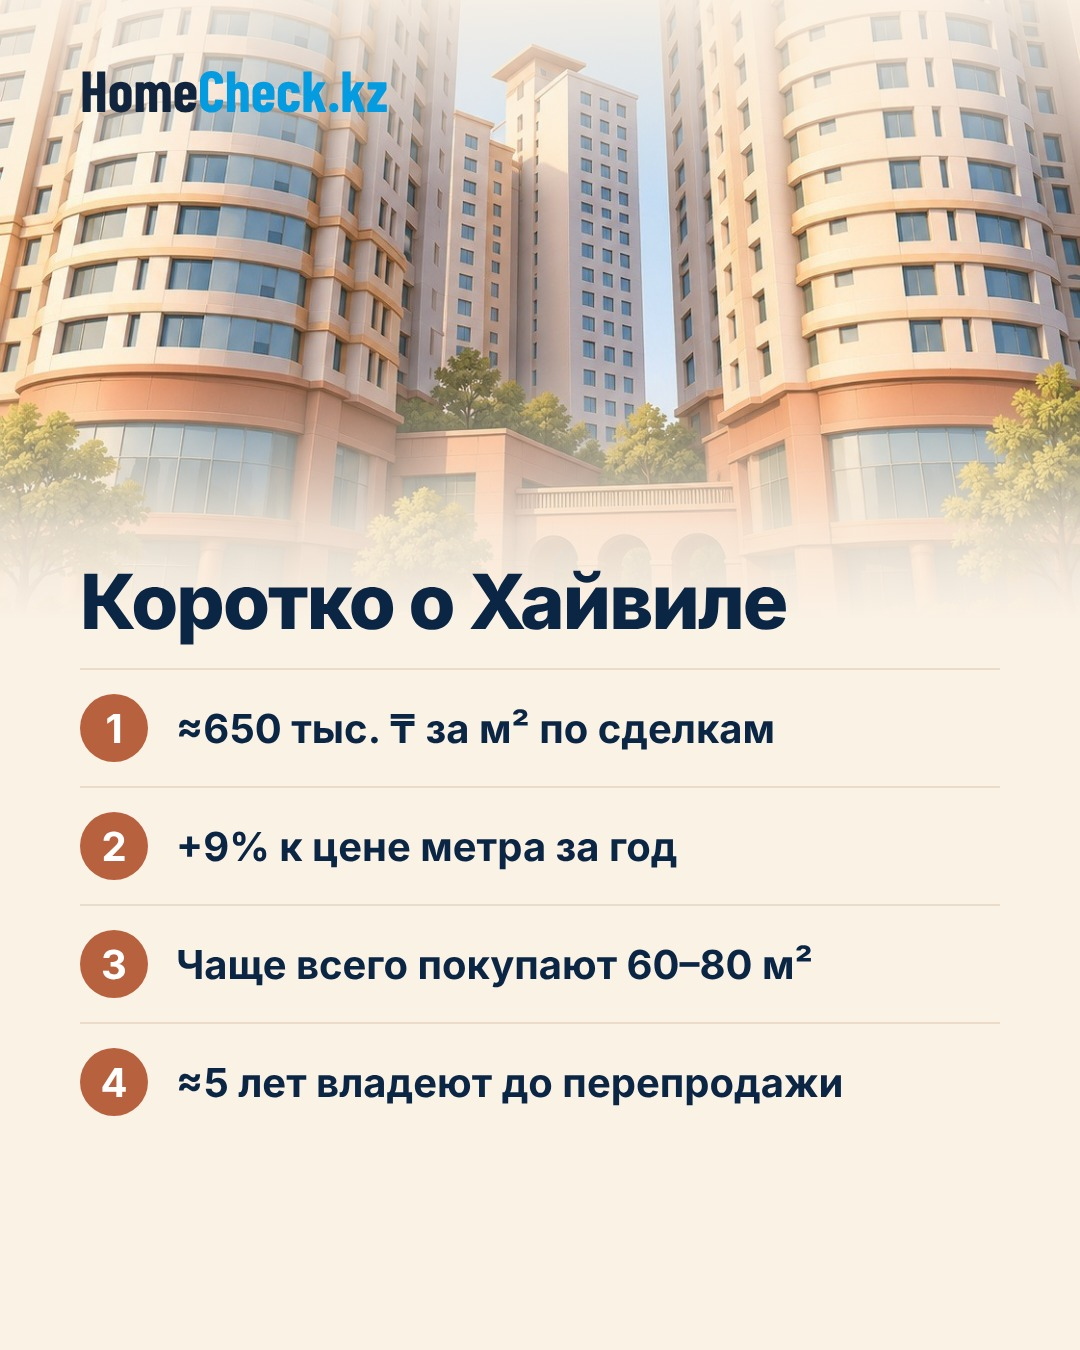
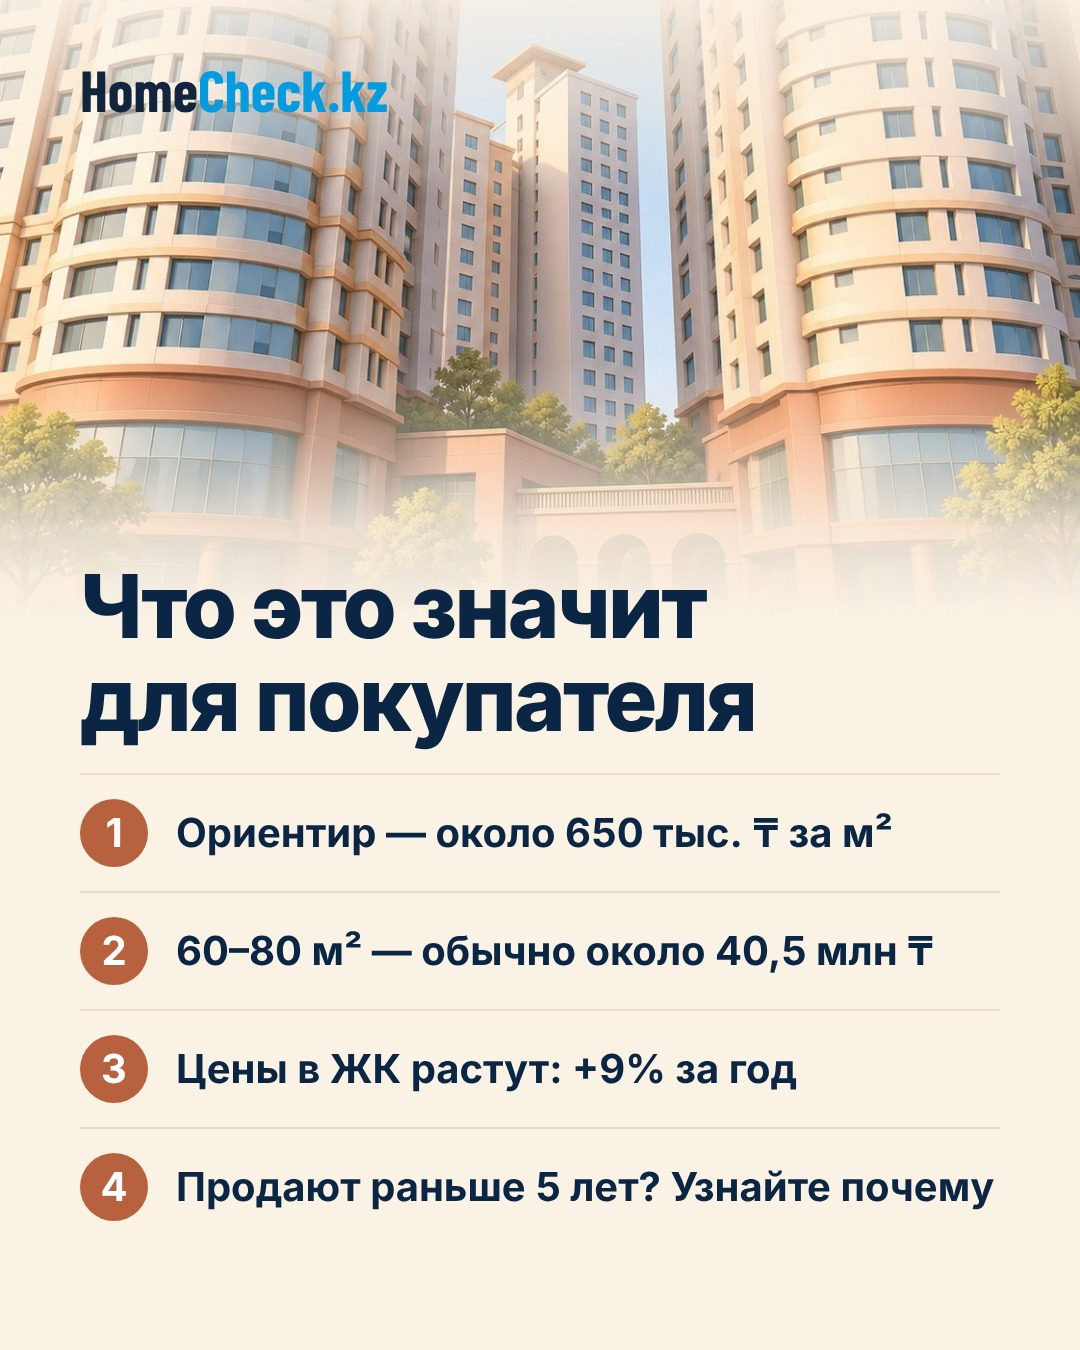
Хайвил: рекомендации из файла данных, крупнее заголовки, простые выводы для покупателя, подпись с источником и периодом
Claude-Session: https://claude.ai/code/session_01YPTRhbcfXRBnSeVtmn8ipe

Changed region(s): [[0.0611, 0.4044, 0.9167, 0.9022], [0.7028, 0.5911, 0.825, 0.6533]]

diff --git a/posts/zhk-bez-filtrov-01-hayvill/build.py b/posts/zhk-bez-filtrov-01-hayvill/build.py
@@ -21,7 +21,7 @@ CSS = f"""
 .logo .h{{color:#12253E}} .logo .c{{color:#049BE1}}
 .img{{position:absolute;left:0;top:0;width:1080px;object-fit:cover}}
 .col{{position:absolute;left:80px;width:920px;z-index:4}}
-.t{{margin:0;font-size:76px;line-height:1.08;font-weight:800;letter-spacing:-.025em}}
+.t{{margin:0;font-size:88px;line-height:1.06;font-weight:800;letter-spacing:-.03em}}
 .n{{font-size:140px;line-height:.95;font-weight:800;letter-spacing:-.04em;color:{BLUE}}}
 .p,.u{{font-size:40px;line-height:1.3;font-weight:500;color:#33465E;margin:0}}
 .u{{font-weight:700;color:{NAVY}}}
@@ -70,26 +70,26 @@ def fact(img, pos, title, num, unit, line):
 
 
 S1 = page(full('aerial', '50% 0%', 520)
-          + f'<div class="col" style="top:170px"><h1 class="t" style="font-size:140px;line-height:1;letter-spacing:-.04em">{NAME}</h1>'
+          + f'<div class="col" style="top:170px"><h1 class="t" style="font-size:190px;line-height:.95;letter-spacing:-.045em">{NAME}</h1>'
             f'<p class="p" style="margin-top:18px;color:{NAVY};font-weight:700">Что о нём говорят реальные сделки →</p></div>'
           + tag(560, 1020, '≈650 тыс. ₸', 'за м² по сделкам', 470, 880))
 
 S2 = fact('towers', '50% 12%', 'Сколько стоит метр на&nbsp;самом деле', '≈650', 'тыс. ₸ за м²',
-          'Типичная цена метра по&nbsp;зарегистрированным сделкам в&nbsp;ЖК')
+          'Столько обычно платят за&nbsp;метр в&nbsp;реальных сделках. Ориентир, чтобы понять, не&nbsp;завышена ли цена квартиры')
 S3 = fact('aerial', '50% 55%', 'Как меняются цены', '+9%', 'за год',
-          'Настолько выросла типичная цена метра по&nbsp;сравнению с&nbsp;предыдущим годом')
+          'Цены в&nbsp;ЖК растут. Это общий тренд по&nbsp;ЖК, а&nbsp;не&nbsp;рост каждой отдельной квартиры')
 S4 = fact('interior', '50% 60%', 'Что здесь покупают чаще всего', '60–80', 'м²',
-          'Каждая пятая продажа. Типичная сумма сделки — 40,5&nbsp;млн&nbsp;₸')
-S5 = fact('courtyard', '50% 88%', 'Как долго владеют квартирой', '≈5', 'лет',
-          'Типичный срок между покупкой и&nbsp;перепродажей')
+          'Каждая пятая продажа. Обычно такая квартира стоит около 40,5&nbsp;млн&nbsp;₸')
+S5 = fact('courtyard', '50% 88%', 'Сколько владеют до&nbsp;перепродажи', '≈5', 'лет',
+          'Обычно квартиру перепродают примерно через 5&nbsp;лет. Если продают раньше — стоит спросить почему')
 
 rows = ''.join(
     f'<div style="display:flex;align-items:center;gap:28px;padding:24px 0;border-top:2px solid #EADCC8">'
     f'<span style="flex:none;width:68px;height:68px;border-radius:50%;background:{TERRA};color:#fff;display:flex;align-items:center;justify-content:center;font-size:40px;font-weight:700">{i}</span>'
     f'<span style="font-size:40px;font-weight:700;color:{NAVY}">{t}</span></div>'
-    for i, t in enumerate(['≈650 тыс. ₸ за м² по&nbsp;сделкам', '+9% к&nbsp;цене метра за&nbsp;год', 'Чаще всего покупают 60–80&nbsp;м²', '≈5 лет владеют до&nbsp;перепродажи'], 1))
+    for i, t in enumerate(['Ориентир — около 650&nbsp;тыс.&nbsp;₸ за&nbsp;м²', '60–80&nbsp;м² — обычно около 40,5&nbsp;млн&nbsp;₸', 'Цены в&nbsp;ЖК растут: +9% за&nbsp;год', 'Продают раньше 5&nbsp;лет? Узнайте почему'], 1))
 S6 = page(top('towers', '50% 90%', 620)
-          + f'<div class="col" style="top:560px"><h2 class="t">Коротко о&nbsp;Хайвиле</h2><div style="margin-top:26px">{rows}</div></div>')
+          + f'<div class="col" style="top:560px"><h2 class="t">Что это значит для&nbsp;покупателя</h2><div style="margin-top:26px">{rows}</div></div>')
 
 S7 = page(full('courtyard', '50% 100%', 560)
           + f'<div class="col" style="top:170px"><h2 class="t">А что сделки говорят о&nbsp;вашем ЖК?</h2>'
